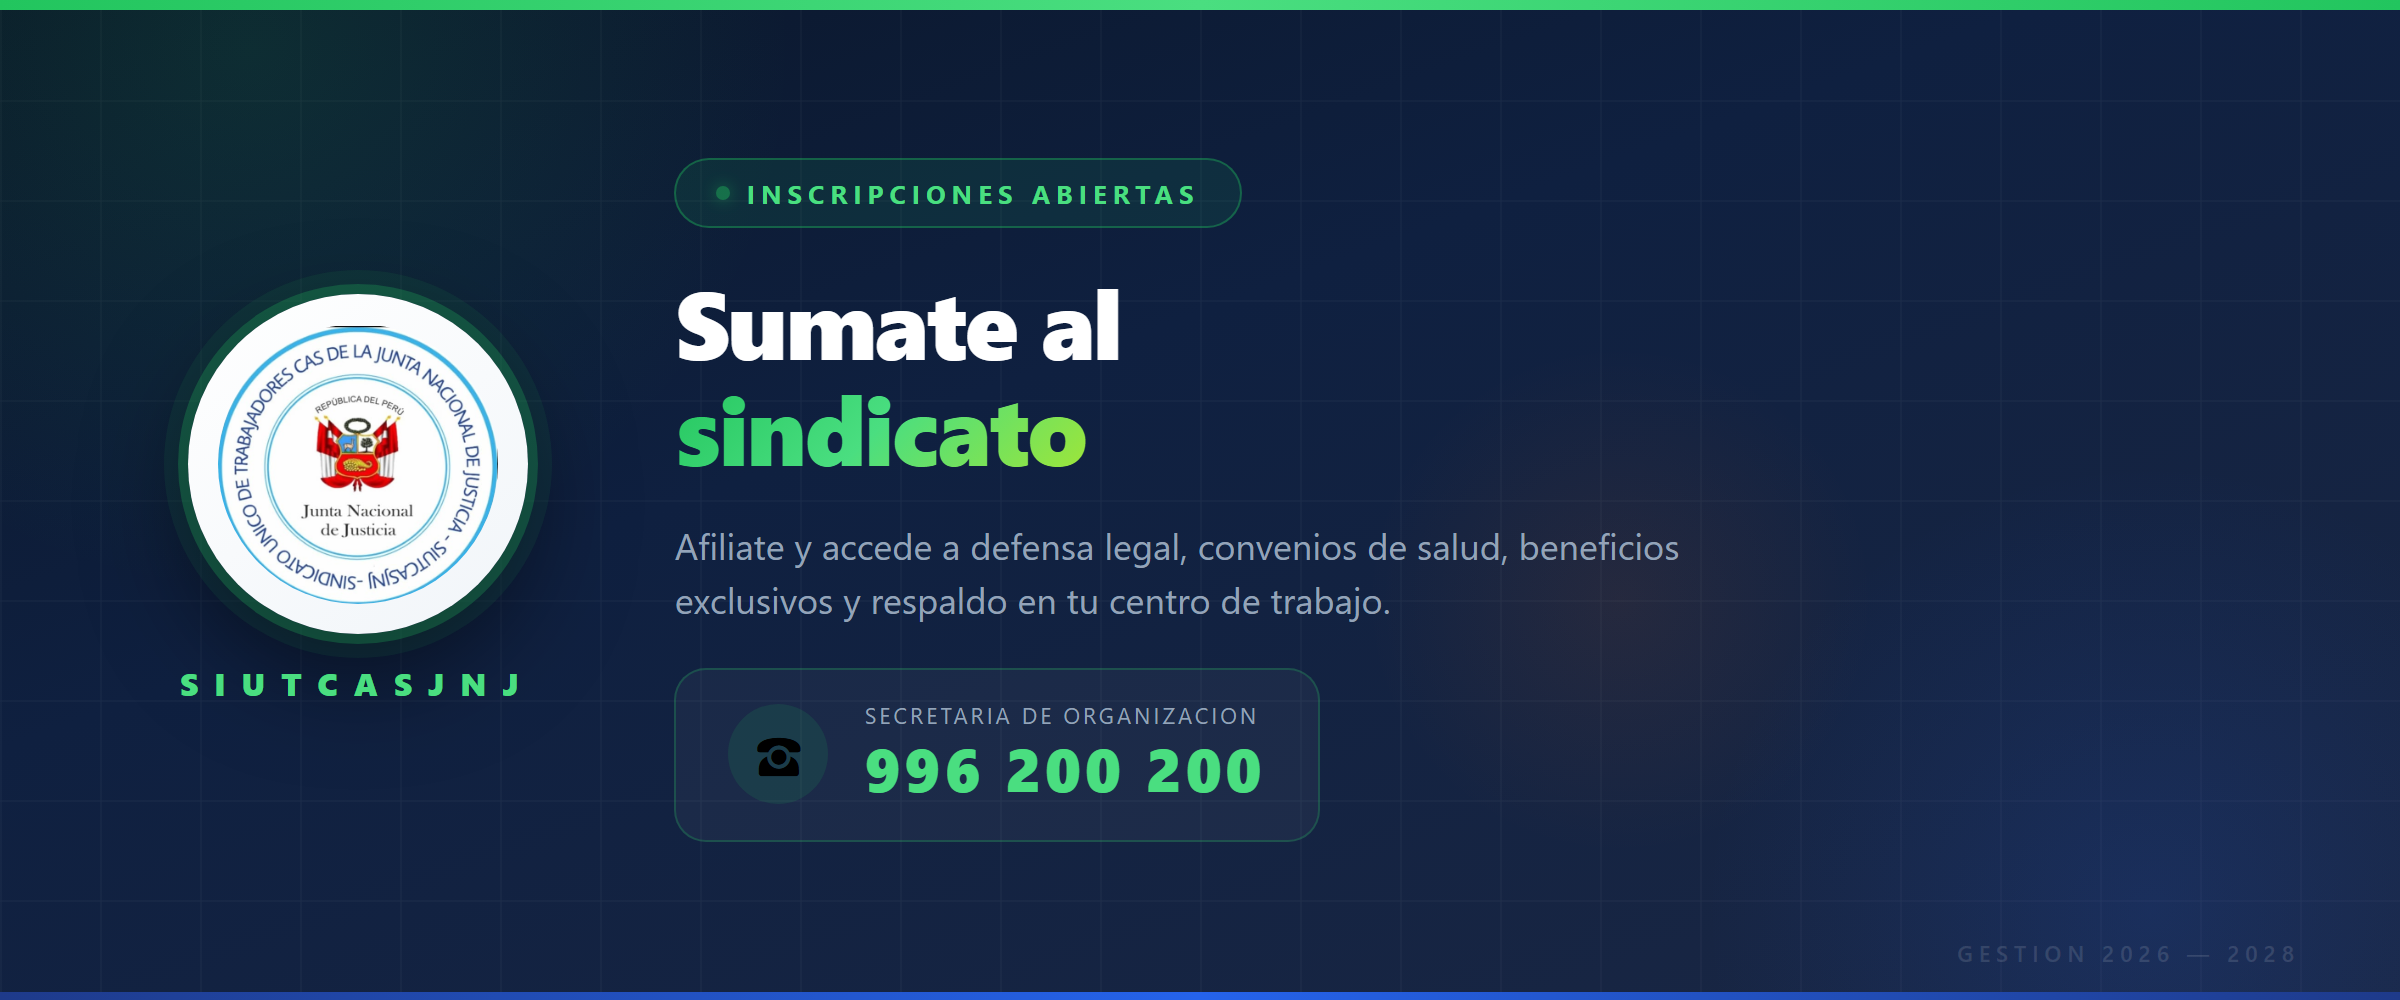
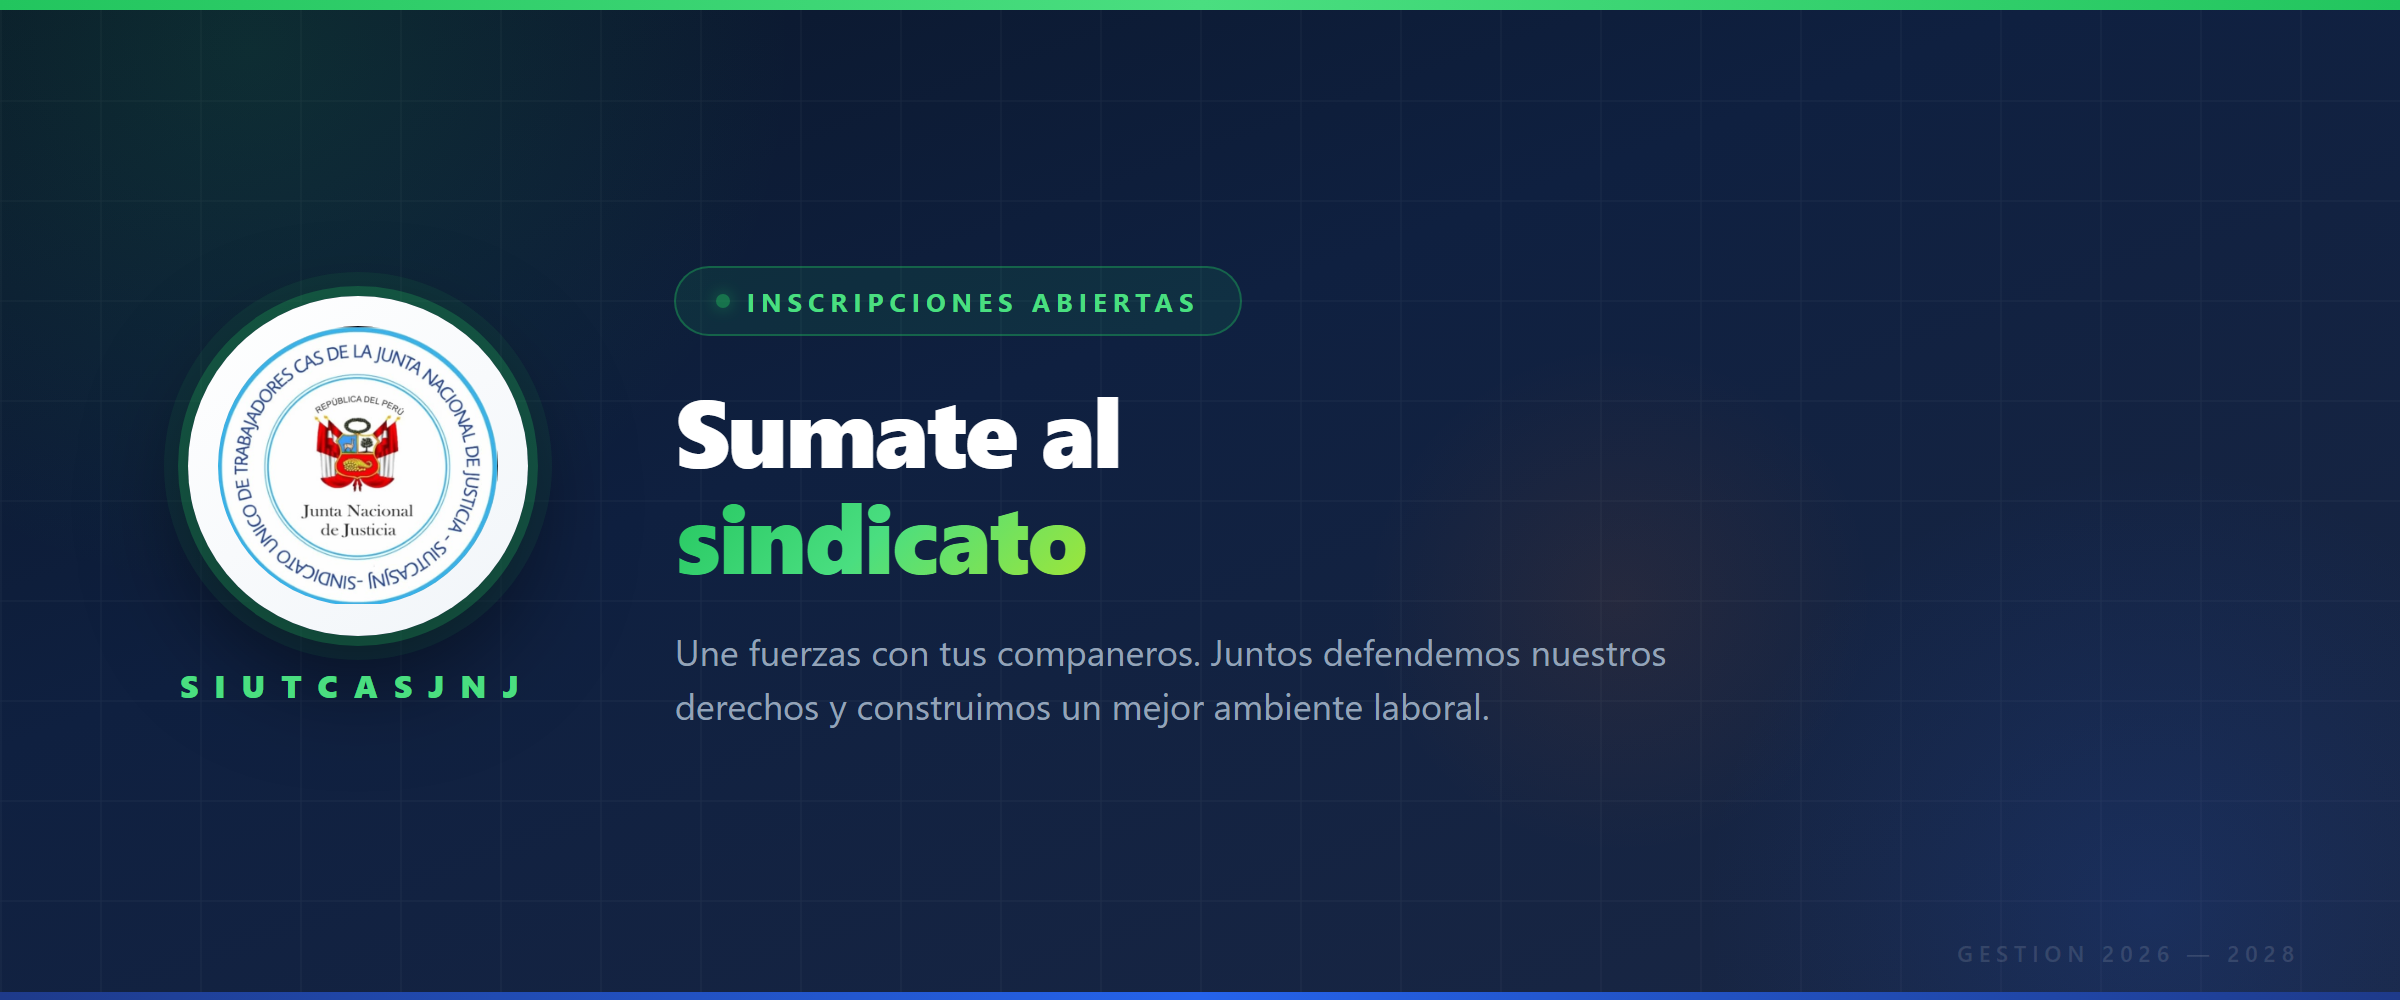
fix anuncio afiliacion sin telefono ni texto altanero + ajuste imagen en portadas

diff --git a/00_public/admin.html b/00_public/admin.html
@@ -1110,6 +1110,7 @@
                     const titulo = document.getElementById('portada-titulo').value;
                     const desc = document.getElementById('portada-desc').value;
                     const link = document.getElementById('portada-link').value.trim();
+                    const ajustar = document.getElementById('portada-ajustar').checked;
                     const orden = parseInt(document.getElementById('portada-orden').value) || 0;
                     const file = document.getElementById('portada-archivo').files[0];
                     const btn = document.getElementById('btn-submit-portada');
@@ -1133,6 +1134,7 @@
                             descripcion: desc,
                             link: link || '',
                             orden: orden,
+                            objectFit: ajustar ? 'contain' : 'cover',
                             url: url,
                             storagePath: storagePath,
                             timestamp: Date.now()
@@ -1566,6 +1568,13 @@
                                             <label class="block text-sm font-bold text-gray-700 mb-1.5">Link al hacer click (Opcional)</label>
                                             <input type="text" id="portada-link" placeholder="Ej: paginas/actualizar_mis_datos.html"
                                                 class="w-full border-gray-300 rounded-lg p-3 border-2 focus:ring-0 focus:border-blue-600 bg-white shadow-sm transition outline-none">
+                                        </div>
+                                        <div class="flex items-center pt-2">
+                                            <label class="relative inline-flex items-center cursor-pointer">
+                                                <input type="checkbox" id="portada-ajustar" class="sr-only peer" checked>
+                                                <div class="w-11 h-6 bg-gray-200 peer-focus:outline-none rounded-full peer peer-checked:after:translate-x-full peer-checked:after:border-white after:content-[''] after:absolute after:top-[2px] after:start-[2px] after:bg-white after:rounded-full after:h-5 after:w-5 after:transition-all peer-checked:bg-blue-600"></div>
+                                                <span class="ms-3 text-sm font-bold text-gray-700">Ajustar imagen completa (sin recorte)</span>
+                                            </label>
                                         </div>
                                     </div>
 
